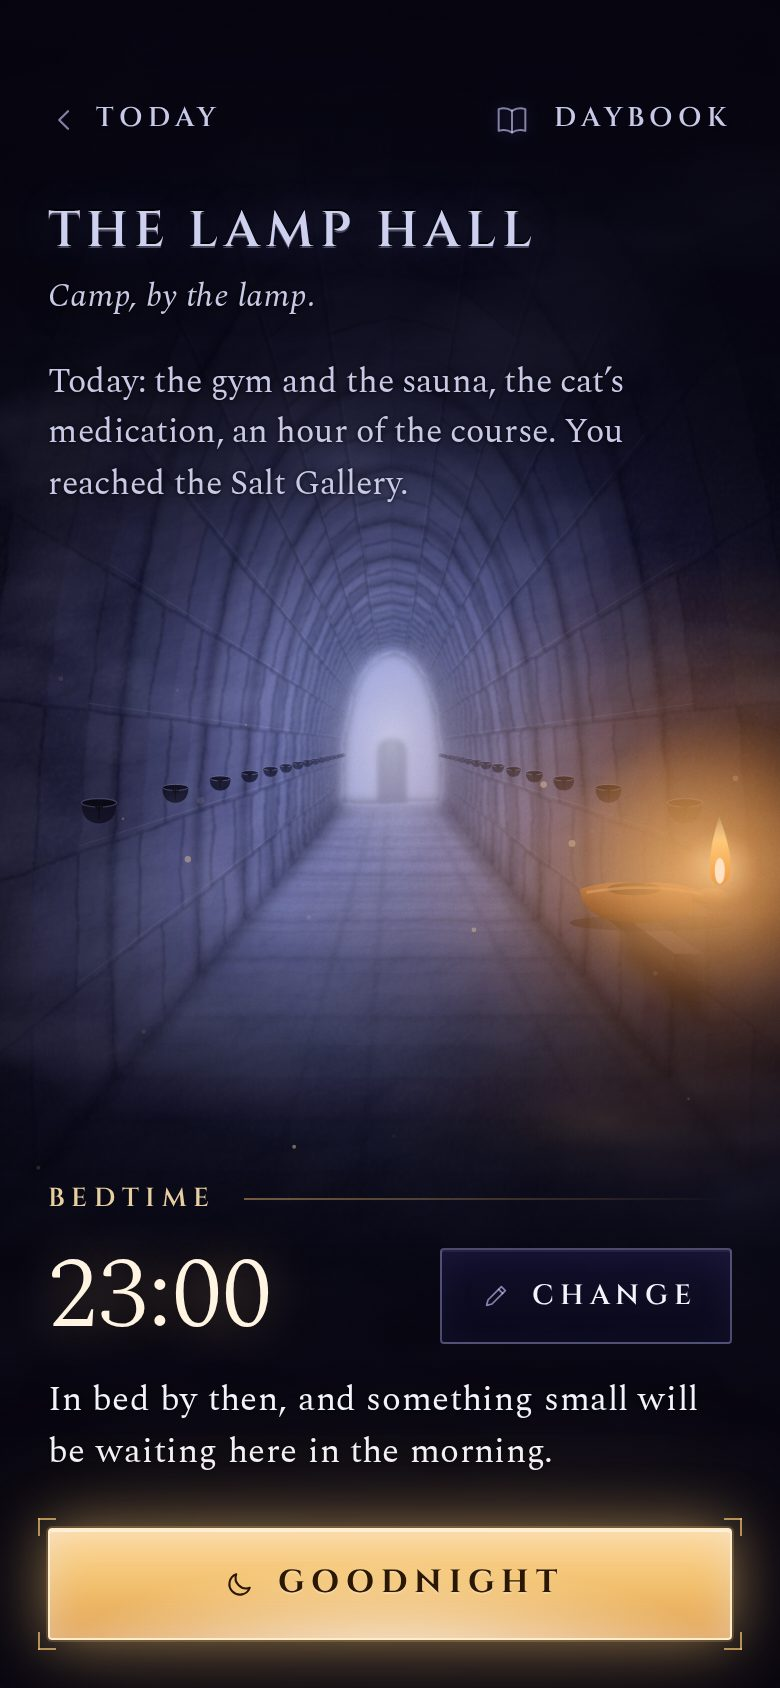
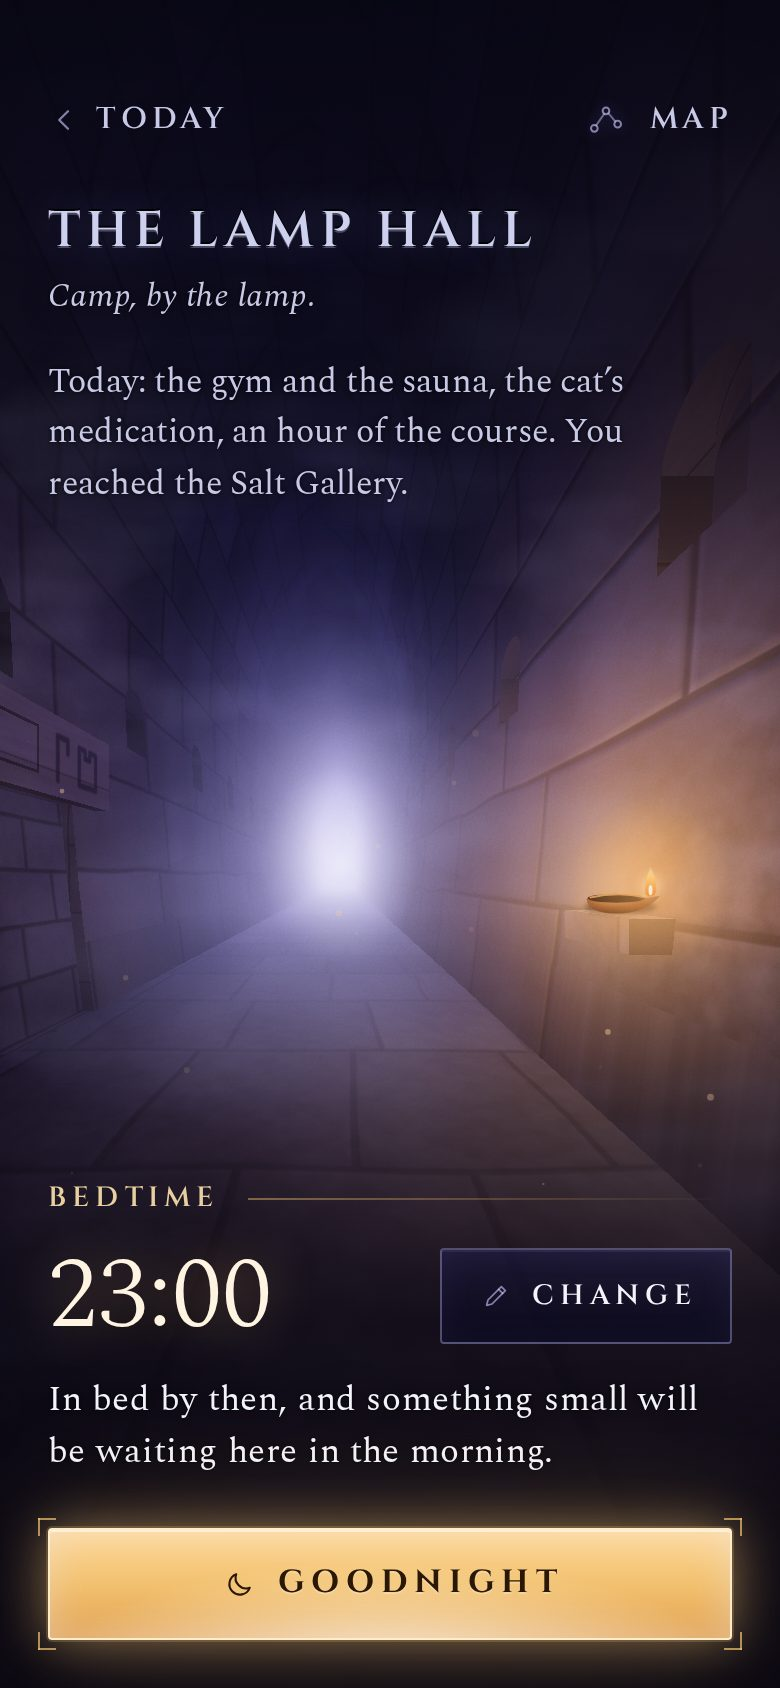
design: direction D revision (one painted hall, full-screen cut, stair, camp, morning)
Claude-Session: https://claude.ai/code/session_017rYuCCJkEfgfZgeLg23VAh

diff --git a/docs/design/directions/d-combined/REVISION-1-d1.md b/docs/design/directions/d-combined/REVISION-1-d1.md
@@ -1,0 +1,29 @@
+# D — Revision 1, part 1: the hall, the cut, the stair, the shared rules
+
+_Answers `CRITIQUE-1.md`, for `direction.css`, the new `hall.js`, `morning.html`, `cut.html`, `camp.html` and `stair.html`. The other screens are revised in part 2 (`REVISION-1-d2.md`)._
+
+## The one real hall (`hall.js`)
+The critique's main point was "paint one real hall and use it everywhere". `hall.js` paints the Lamp Hall pixel by pixel into any element, from a camera position you choose. The hall is long and high, shaped like the inside of a shell: the walls lean out from the floor, swell, and curve without a break into a slightly pointed vault about 2.8 times taller than it is wide. It is built from large ashlar blocks (1.3 m courses, 2.9 m long). The joints wander a little and the blocks are bevelled, with chisel texture, water streaks and faces slightly out of true, so a point light picks out the relief. Arched wall-cup recesses, in true perspective, run a third of the way up both walls, with a small dark clay cup on each sill. The heavy lintel beam stands proud of the left wall over a sealed blank. The clay lamp sits on a stone ledge on the right wall and is always lit. The great door is at the far end. The light is violet and the haze deepens toward the far end. Everything shares one vanishing point, and far surfaces are blurred by depth. A bloom pass lays haze over the stone, so no line-work shows. Options: camera position and crop, cups `dark` / `waking` / `lit`, lintel `sealed` / `open` / `opening`, and gold level. A `stair` scene uses the same hand. Morning, cut, camp and stair all draw from it; the old baked SVG paintings are gone (the files shrank from 140–340 KB to 4–15 KB).
+
+## Blockers
+1. **Cut is full-screen (done).** The camera now faces the lintel across the hall. After the second mark: the lintel's marks flash and lock, then the top bar, heading, keys, hint and "Later" fade out (about 450 ms). The word box stays and floats over the scene. The stone slab sinks out of the blank, top edge first, and the opening becomes a dark recess lit from below, with light spilling onto the floor. The cups wake one by one from near to far, and the camera pushes down the hall toward the opening (scale 1.42 plus translate, 3.2 s). At about 4.9 s the interface returns: carved "THE LINTEL", then "The lintel answered.", then **Go through**. The marks are cut on the lintel itself, in the painting's perspective, and they turn gold as the hall wakes.
+2. Complete: part 2.
+3. **Stair goes down (done).** You stand on the landing beside the stair's open side. The treads step down in a clear sawtooth into a level bank of lit mist. The passage roof tilts down with the stair, and the light comes from below, up the well. There is no door straight ahead. It is the same painting (`hall.js`, `scene: 'stair'`), so the vault and stone match the hall. One deviation from the critique's fix: a dead-centre view down a straight stair always shows the steps rising toward their vanishing point, and I tried five framings of it. None read as "down", so I chose the side view with the open edge.
+4. **Figure-like mark (done).** The lintel's two sample marks are now a hooked bar and a notched square. I checked every mark in the set: the cut's *wake?* (an arc over a dot, with a lower arc, like an eye) and *stone?* (a leaning quadrilateral) have no head-and-limbs reading. All are invented samples.
+
+## Should fix
+1. **Hall looks like a subway (done).** See above: fewer, much larger blocks, a shell section taller than wide, the cup line a third of the way up with empty dark stone above, and haze and bloom over the geometry.
+2. **Morning (done).** The header is tighter: 8 px less above the selector, and the "Ahead" label is dropped so the sentence stands alone. The lintel is a heavy beam set into the wall over a blank. The corner brackets are finer (0.8 px) and at about half their old opacity (0.4, breathing to 0.22). Every cup sits in a recess on the cup line, so none floats. Begin now goes to `delve-set.html`, as the coordinator asked.
+3. Map: part 2.
+4. **One rule for headings and top bars (done in `direction.css`).** It is written at the top-bar section. The top bar is Today (or the day), then nothing, then Map or nothing. It never has a title (`.topbar .title` is hidden) or a replay control. The h1 is the place or object name in carved capitals, with any sentence in plain print under it. Cut now heads "THE LINTEL", and camp's top-right Daybook link is now Map. Stair and camp use morning's map icon. Daybook's "WEEK TWO" is part 2's file.
+5–7. Record, satchel: part 2.
+8. **Camp lamp (done).** The camera stands closer to the lamp. The whole dish, flame and halo sit inside the right third, the gold stays near the lamp (the pool is centred on it), and the hall still runs deep behind.
+9. **Small carved labels (done).** `.label-line` and `.label` are now 14px with .2em tracking; `.home`, `.icon-link`, the nav row and the morning day are 15px; `.carve.sm` is 14px. The morning nav row still fits at 360 wide, with 12 px gaps. No screen scrolls sideways at 360.
+
+## Nits
+1. **Replay (done).** It is gone from the cut's top bar. The moment still plays by itself on load, and tapping the marks plays it too. The gallery page belongs to the coordinator.
+6. **Alignment (done).** "Now the second." sits centred inside the word box, with the box's centred label and rod.
+
+## Known limits
+- The painting renders on load (about 1.2 s on a laptop, and twice for the cut). It fades in, so the page never shows a half-drawn frame. A real build would pre-render it.
+- In the stair, the landing floor in the lower third is plain, but it sits under the bottom scrim.
